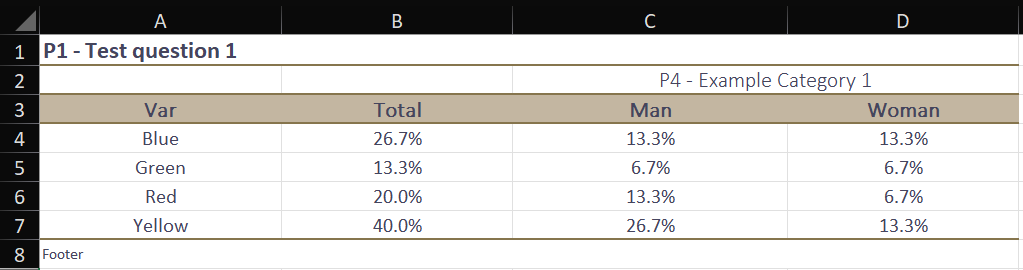
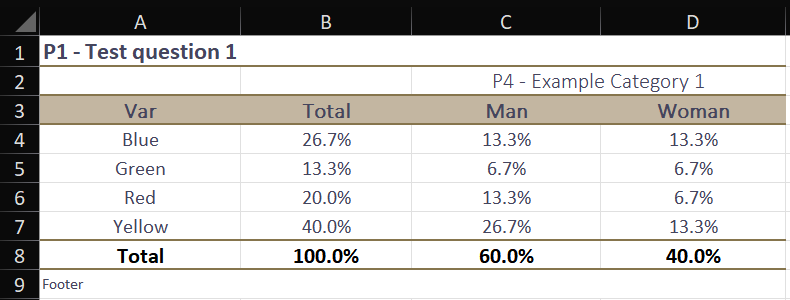
📚 docs: The project documentation was updated along with the images of the results obtained.

Changed region(s): [[0.0, 0.0296, 1.0, 1.0], [0.638, 0.0296, 0.6684, 0.0593]]

diff --git a/README.md b/README.md
@@ -43,8 +43,15 @@ Adjustments should only be made to the `start_code` function in the `main.py` fi
 ## What's New?
 
 ### Latest Adjustments:
+**22/05/2024**
+
 - **Simple Tables**: Added the option to produce simple tables without crossing with any variable, where data is presented in quantities and percentages (option 4 in the `table_type` variable).
 - **Bug Fixes**: Fixed a bug in the code when calculating totals for variables that have blank values.
 - **Value Sorting**: Improved the code so that the values in the `Var` column of the output tables are also sorted according to the order specified in the `config_values.json` file.
 - **Chi-Squared Test**: In the absolute values option (option 0 in the `table_type` variable), added the chi-squared test to evaluate the degree of independence between variables.
 - **Variable Operations**: Modified the logic of the instructions placed in the `SUM` column of `db_vars` to support the specification of variables to operate. It is now possible to use the multiplication of two variables as a factor by passing the value `Variable 1,${multiply},Variable 2`.
+
+**23/05/2024**
+
+- **Total row**: Added a totals row to all tables except %rows (`table_type=3`).
+- **Bug Fixes**: Fixed an error in the code that originated when adding the simple tables option.
